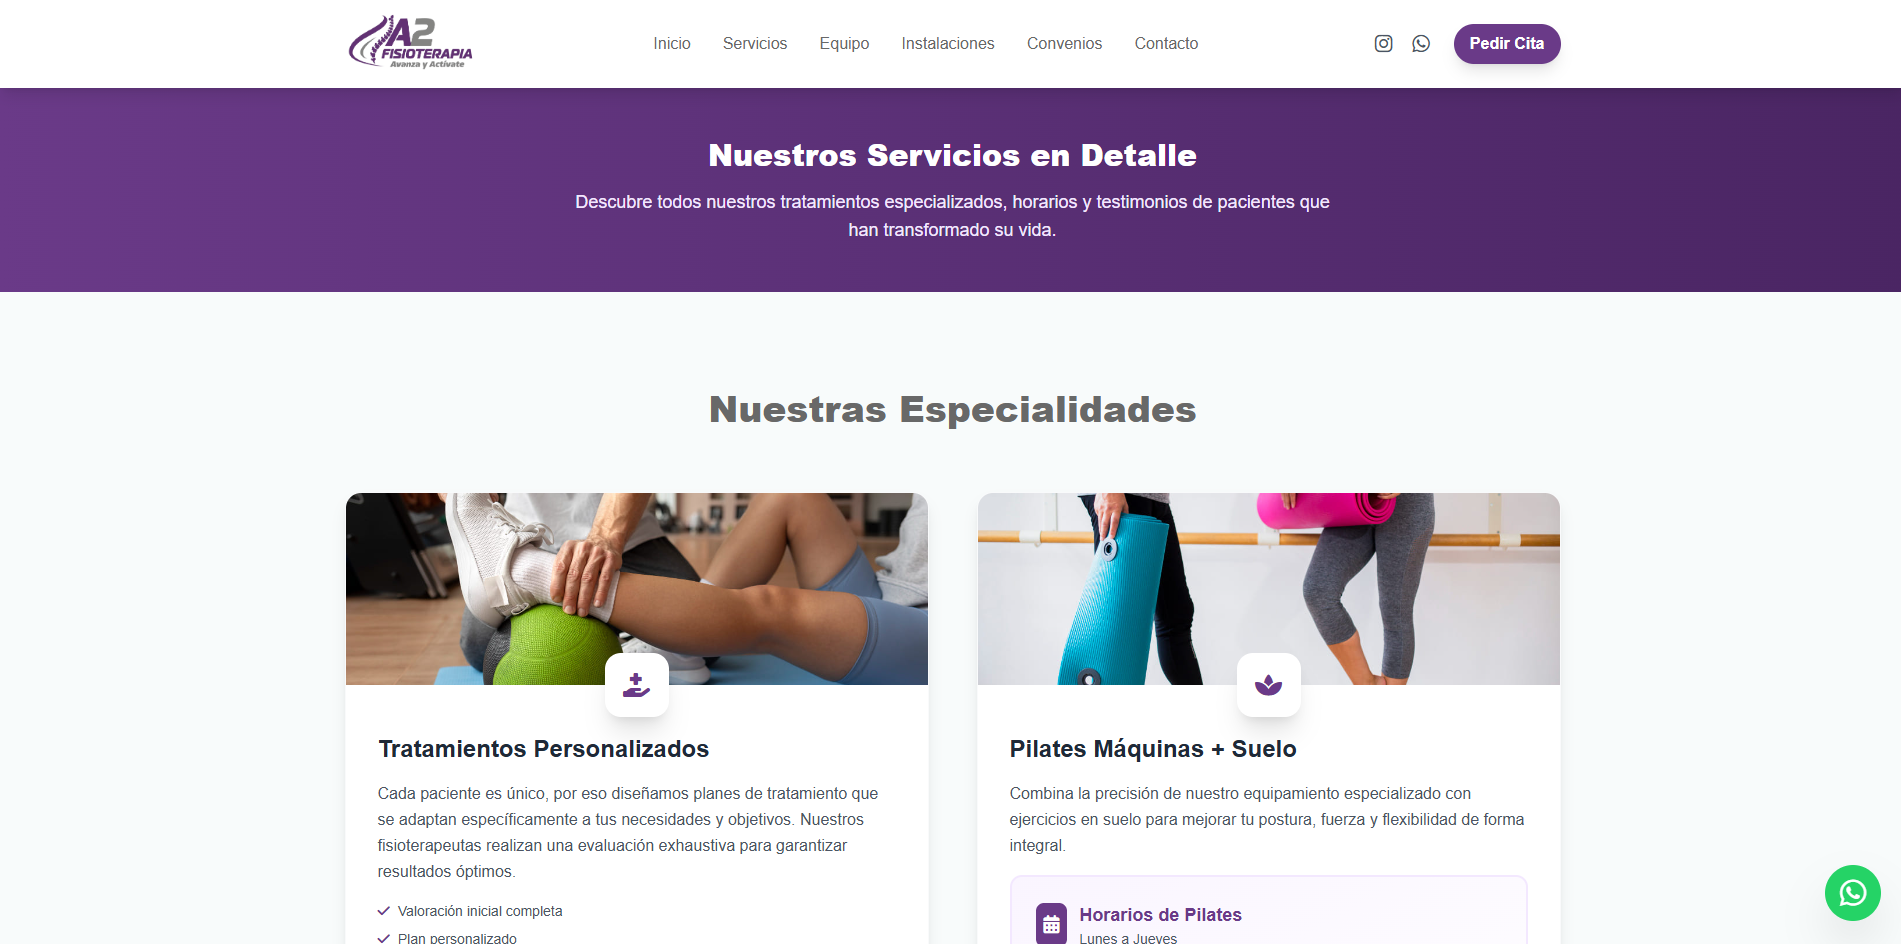
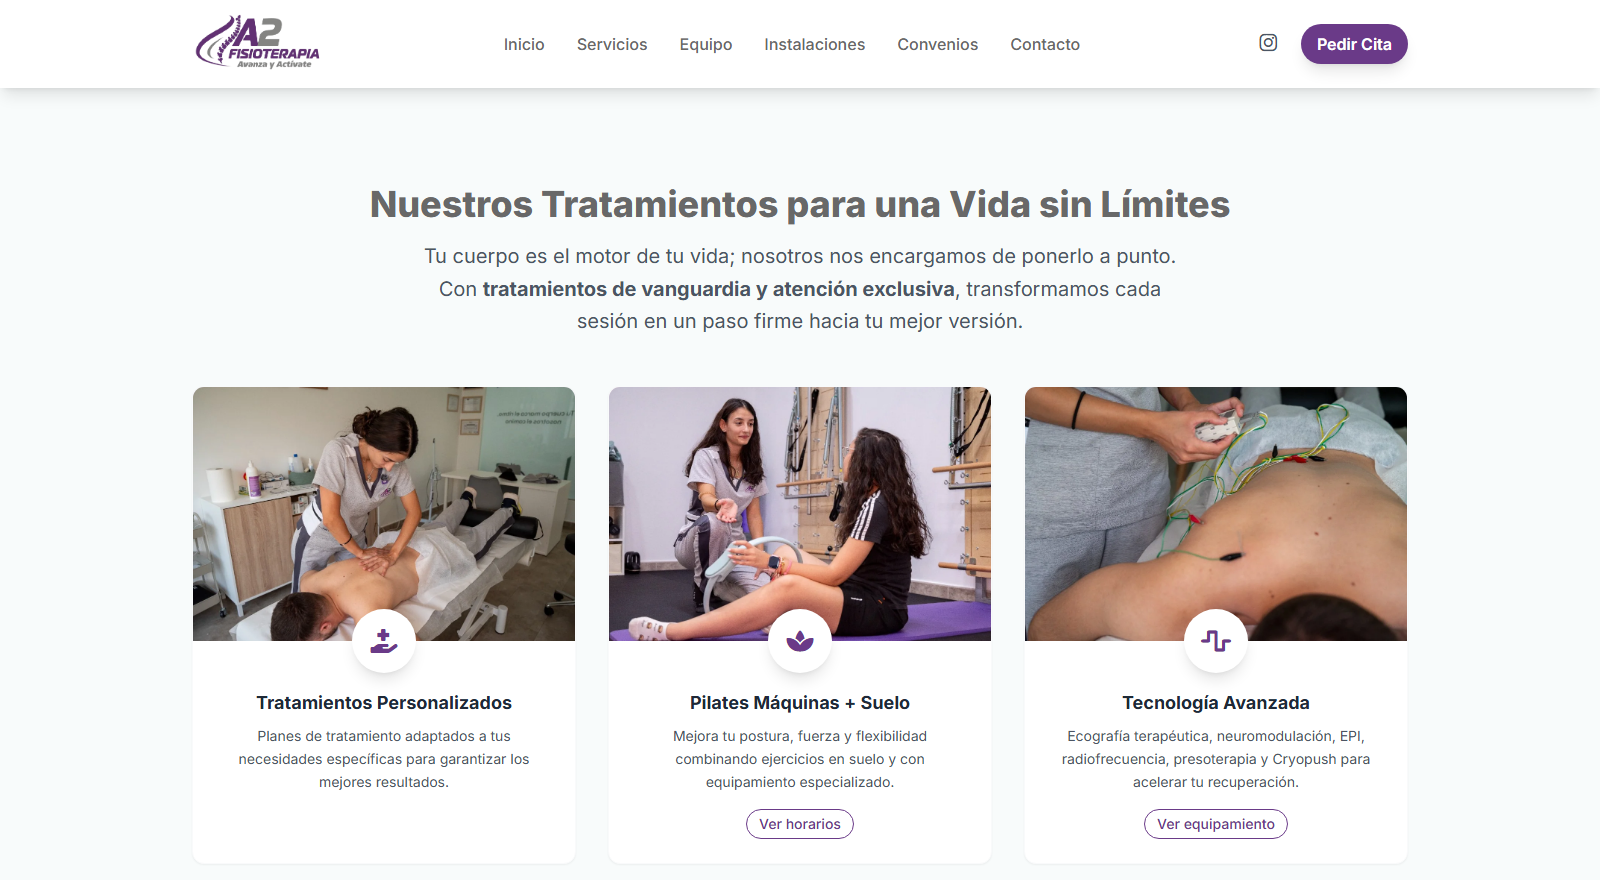
update a2

diff --git a/index.html b/index.html
@@ -480,8 +480,7 @@
                     <h4>QRTrol</h4>
                     <p data-i18n='web'>WEB</p>
                     <div class="portfolio-links">
-                      <a href="portfolio-details.html?proyecto=qrtrol" class="portfolio-details-lightbox"
-                        data-glightbox="type: external" title="Portfolio Details"><i class="bx bx-link"></i></a>
+                      <a href="portfolio-details.html?proyecto=qrtrol" title="Portfolio Details"><i class="bx bx-link"></i></a>
                     </div>
                   </div>
                 </div>
@@ -494,13 +493,12 @@
                   <h2>A2 Fisioterapia</h2>
                   <p class="portfolio-card-text" data-i18n='a2fisioterapia_description'>Web de una clínica de fisioterapia: servicios, equipo y contacto con pacientes.</p>
                   <a class="portfolio-site" href="https://a2fisioterapia.com/" target="_blank" rel="noopener">a2fisioterapia.com</a>
-                  <img src="assets/img/portfolio/a2fisioterapia.png" class="img-fluid" alt="A2 Fisioterapia">
+                  <img src="assets/img/portfolio/a2fisioterapia.png?v=3" class="img-fluid" alt="A2 Fisioterapia">
                   <div class="portfolio-info">
                     <h4>A2 Fisioterapia</h4>
                     <p data-i18n='web'>WEB</p>
                     <div class="portfolio-links">
-                      <a href="portfolio-details.html?proyecto=a2fisioterapia" class="portfolio-details-lightbox"
-                        data-glightbox="type: external" title="Portfolio Details"><i class="bx bx-link"></i></a>
+                      <a href="portfolio-details.html?proyecto=a2fisioterapia" title="Portfolio Details"><i class="bx bx-link"></i></a>
                     </div>
                   </div>
                 </div>
@@ -518,8 +516,7 @@
                     <h4>MiControlHorario</h4>
                     <p data-i18n='web'>WEB</p>
                     <div class="portfolio-links">
-                      <a href="portfolio-details.html?proyecto=micontrolhorario" class="portfolio-details-lightbox"
-                        data-glightbox="type: external" title="Portfolio Details"><i class="bx bx-link"></i></a>
+                      <a href="portfolio-details.html?proyecto=micontrolhorario" title="Portfolio Details"><i class="bx bx-link"></i></a>
                     </div>
                   </div>
                 </div>
@@ -537,8 +534,7 @@
                     <h4>AFAL Bolaños</h4>
                     <p data-i18n='web'>WEB</p>
                     <div class="portfolio-links">
-                      <a href="portfolio-details.html?proyecto=afalbolanos" class="portfolio-details-lightbox"
-                        data-glightbox="type: external" title="Portfolio Details"><i class="bx bx-link"></i></a>
+                      <a href="portfolio-details.html?proyecto=afalbolanos" title="Portfolio Details"><i class="bx bx-link"></i></a>
                     </div>
                   </div>
                 </div>
@@ -555,8 +551,7 @@
                     <h4>ESI Travel</h4>
                     <p data-i18n='web'>WEB</p>
                     <div class="portfolio-links">
-                      <a href="portfolio-details.html?proyecto=ESItravel" class="portfolio-details-lightbox"
-                        data-glightbox="type: external" title="Portfolio Details"><i class="bx bx-link"></i></a>
+                      <a href="portfolio-details.html?proyecto=ESItravel" title="Portfolio Details"><i class="bx bx-link"></i></a>
                     </div>
                   </div>
                 </div>
@@ -573,8 +568,7 @@
                     <h4>GSI Finanzas</h4>
                     <p data-i18n='mobile_app3'>App móvil</p>
                     <div class="portfolio-links">
-                      <a href="portfolio-details.html?proyecto=gsiFinanzas" class="portfolio-details-lightbox"
-                        data-glightbox="type: external" title="Portfolio Details"><i class="bx bx-link"></i></a>
+                      <a href="portfolio-details.html?proyecto=gsiFinanzas" title="Portfolio Details"><i class="bx bx-link"></i></a>
                     </div>
                   </div>
                 </div>
@@ -591,8 +585,7 @@
                     <h4>SignalScan</h4>
                     <p data-i18n='mobile_app2'>App móvil</p>
                     <div class="portfolio-links">
-                      <a href="portfolio-details.html?proyecto=signalScan" class="portfolio-details-lightbox"
-                        data-glightbox="type: external" title="Portfolio Details"><i class="bx bx-link"></i></a>
+                      <a href="portfolio-details.html?proyecto=signalScan" title="Portfolio Details"><i class="bx bx-link"></i></a>
                     </div>
                   </div>
                 </div>
@@ -609,8 +602,7 @@
                     <h4>IPOkemon</h4>
                     <p data-i18n='desktop2'>ESCRITORIO</p>
                     <div class="portfolio-links">
-                      <a href="portfolio-details.html?proyecto=IPOkemon" class="portfolio-details-lightbox"
-                        data-glightbox="type: external" title="Portfolio Details"><i class="bx bx-link"></i></a>
+                      <a href="portfolio-details.html?proyecto=IPOkemon" title="Portfolio Details"><i class="bx bx-link"></i></a>
                     </div>
                   </div>
                 </div>
@@ -627,8 +619,7 @@
                     <h4>PokemonWartortle</h4>
                     <p data-i18n='desktop3'>ESCRITORIO</p>
                     <div class="portfolio-links">
-                      <a href="portfolio-details.html?proyecto=pokemon" class="portfolio-details-lightbox"
-                        data-glightbox="type: external" title="Portfolio Details"><i class="bx bx-link"></i></a>
+                      <a href="portfolio-details.html?proyecto=pokemon" title="Portfolio Details"><i class="bx bx-link"></i></a>
                     </div>
                   </div>
                 </div>

diff --git a/assets/js/portfolio-details.js b/assets/js/portfolio-details.js
@@ -104,9 +104,9 @@ const proyectos = {
   },
   a2fisioterapia: {
     imagenes: [
-      "assets/img/portfolio/a2fisioterapia.png",
-      "assets/img/portfolio/a2fisioterapia1.png",
-      "assets/img/portfolio/a2fisioterapia2.png",
+      "assets/img/portfolio/a2fisioterapia.png?v=3",
+      "assets/img/portfolio/a2fisioterapia1.png?v=4",
+      "assets/img/portfolio/a2fisioterapia2.png?v=3",
     ],
     githubLink: "https://a2fisioterapia.com/",
   },

diff --git a/assets/js/main.js b/assets/js/main.js
@@ -248,7 +248,7 @@
    * Initiate portfolio details lightbox 
    */
   const portfolioDetailsLightbox = GLightbox({
-    selector: '.portfolio-details-lightbox',
+    selector: '.portfolio-card-hit',
     width: '90%',
     height: '90vh'
   });
